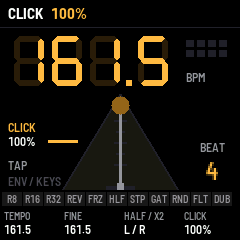
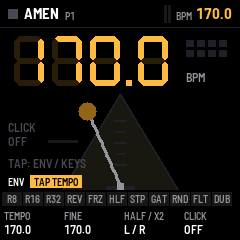
One rule for the page names: the header says the button and the part
Every page opening, button-again and ALGORITHM part change goes through
page_say(): the button as printed, then the part as its tab shows it (HOME
PERFORM, ARP GENERATOR, FX SLOT 2 TREMOLO, GLO PITCH, EDIT KICK SUB FX, EDIT
HAT SHAPE, LFO GROOVE, ENV TAP TEMPO, SEQ HAT). Before: button names on
some pages, page names on others (GLOBAL, MIXER, FX CHAIN, TAP TEMPO), drum
names on EDIT, and parts that differed from their tabs ("PITCH, SNAP",
"STEPS 1-16", FX with none). The tap tempo page keeps its tab (ENV TAP
TEMPO) at its foot. Scenario pages.txt visits every page and part.

Claude-Session: https://claude.ai/code/session_01YWuRNut7ZhYpQRsULF21Ph

diff --git a/app/ui/main.c b/app/ui/main.c
@@ -122,17 +122,11 @@ static void knob_turn(int k, int32_t d)
 /* EDIT: the drum ui.einst's sound (the kick's page, or the snare's or the hat's) */
 static void edit_open(void)
 {
-    char t[16];
-    t[0] = 0;
     ui.page = ui.einst ? PG_PERC : PG_KICK;
     ui.redraw |= RG_FOOT | RG_BLOCKS;
-    if (ui.einst) {
+    if (ui.einst)
         ui.pvoice = (uint8_t)(ui.einst - 1u);
-        app_say(PERC_VOICE_NAME[ui.pvoice], ui.ppage ? "SHAPE" : "SOUND");
-    } else {
-        kick_part_name(kick_part(), t);
-        app_say("KICK", t);
-    }
+    page_say();
 }
 
 /* a break change (ALGORITHM): its name at once, the break itself at the next bar. Playing, break_poll waits for
@@ -269,7 +263,7 @@ static void input(void)
     if (bdn & 1u << B_HOME) {
         ui.page = PG_HOME;
         ui.redraw |= RG_FOOT | RG_BLOCKS;
-        app_say("HOME", "PERFORM");
+        page_say();
     }
     if (bdn & 1u << B_GLO)               /* GLOBAL: MIDI clock and Bluetooth; again, the pitch; again, BT audio */
         global_part(ui.page == PG_GLOBAL ? (ui.gpage + 1u) % 3u : 0u);
@@ -282,7 +276,7 @@ static void input(void)
         ui.mpage = ui.page == PG_MIX ? (uint8_t)!ui.mpage : 0u;
         ui.page = PG_MIX;
         ui.redraw |= RG_FOOT | RG_BLOCKS;
-        app_say("MIXER", ui.mpage ? "GROOVE" : "LEVELS");
+        page_say();
     }
     if (bdn & 1u << B_ENV) {             /* ENV: TAP TEMPO, the whole screen; again: a tap */
         if (ui.page == PG_TAP)
@@ -291,7 +285,7 @@ static void input(void)
             slices_let_go(keys);
             ui.page = PG_TAP;
             ui.redraw |= RG_FOOT | RG_BLOCKS;
-            app_say("TAP TEMPO", "ENV OR WHITE KEYS");
+            page_say();
         }
     }
     if (bdn & 1u << B_SEQ) {             /* SEQ: the pattern's steps and lanes; again, the next lane */
@@ -301,7 +295,7 @@ static void input(void)
             ui.seq_lane = (uint8_t)((ui.seq_lane + 1u) % NSEQL);
         ui.page = PG_SEQ;
         ui.redraw |= RG_FOOT | RG_BLOCKS;
-        app_say("SEQ", SEQ_LANE_NAME[ui.seq_lane % NSEQL]);
+        page_say();
     }
     if (bdn & 1u << B_REC && btn & 1u << B_SEL) {   /* SEL + REC: clear (on SEQ its lane; else the pattern) */
         seq_clear(ui.page == PG_SEQ);
@@ -317,10 +311,11 @@ static void input(void)
             pat_read_back();             /* (into the pattern playing: SAVE keeps it) */
             set_dirty = 1u;
             app_say("RANDOMIZE", "");
-        } else
-            app_say("ARP", "GENERATOR");
+        }
         ui.page = PG_GEN;
         ui.redraw |= RG_FOOT | RG_BLOCKS;
+        if (!(btn & 1u << B_SEL))
+            page_say();
     }
     if (bdn & 1u << B_FX && key_tuned() >= 0) {   /* FX with a key held: its knobs, loop <-> slice effect */
         ui.key_layer ^= 1u;
@@ -341,9 +336,9 @@ static void input(void)
         if (ui.page == PG_FX) {
             ui.fx_hold = 1u;
             ui.fx_turned = 0u;
-        } else
-            app_say("FX CHAIN", "");
+        }
         ui.page = PG_FX;
+        page_say();
         ui.redraw |= RG_FOOT | RG_BLOCKS;
     }
     if (ui.fx_hold && !(btn & 1u << B_FX)) {   /* FX let go: alone, the next slot; with ALGORITHM turned, a move */
@@ -440,11 +435,11 @@ static void input(void)
                 ui.redraw |= RG_BLOCKS | RG_FOOT;
             } else if (ui.page == PG_SEQ) {   /* SEQ: the lane its keys edit */
                 ui.seq_lane = (uint8_t)((ui.seq_lane + (d > 0 ? 1u : NSEQL - 1u)) % NSEQL);
-                app_say("SEQ", SEQ_LANE_NAME[ui.seq_lane]);
+                page_say();
                 ui.redraw |= RG_BLOCKS | RG_FOOT;
             } else if (ui.page == PG_PERC) {   /* the snare or the hat: SOUND or SHAPE */
                 ui.ppage ^= 1u;
-                app_say(PERC_VOICE_NAME[ui.pvoice % PERC_VOICES], ui.ppage ? "SHAPE" : "SOUND");
+                page_say();
                 ui.redraw |= RG_BLOCKS | RG_FOOT;
             } else if (ui.page == PG_FX)
                 fx_algo(d, 0u);
@@ -629,6 +624,40 @@ static void draw_tabs(void)
         cv_text(236 - text_w(&FONT_T, t), 1, &FONT_T, t, C_HI);
     }
     cv_blit(0, 74);
+}
+
+/* the header, when a page opens or turns to another part: the button as printed and the part as its tab shows it
+ * ("GLO PITCH", "EDIT KICK SUB FX", "FX SLOT 2 TREMOLO", "SEQ HAT", "ENV TAP TEMPO") */
+static void page_say(void)
+{
+    static const char *const BTN[NPAGES] = {"HOME", "ARP", "FX", "GLO", "EDIT", "LFO", "SEQ", "EDIT", "ENV"};
+    static const char *const GPART[3] = {"MIDI", "PITCH", "BT AUDIO"};
+    static const char *const SEQL[NSEQL] = {"1-16", "17-32", "KICK", "SNARE", "HAT"};
+    char t[24];
+    t[0] = 0;
+    switch (ui.page) {
+    case PG_HOME: text_cat(t, "PERFORM"); break;
+    case PG_GEN: text_cat(t, "GENERATOR"); break;
+    case PG_GLOBAL: text_cat(t, GPART[ui.gpage % 3u]); break;
+    case PG_MIX: text_cat(t, ui.mpage ? "GROOVE" : "LEVELS"); break;
+    case PG_SEQ: text_cat(t, SEQL[ui.seq_lane % NSEQL]); break;
+    case PG_TAP: text_cat(t, "TAP TEMPO"); break;
+    case PG_FX:
+        text_cat(t, "SLOT ");
+        int_text((int32_t)(ui.fx_focus & 3u) + 1, t + 5);
+        text_cat(t, " ");
+        text_cat(t, BRK_FXT_NAME[set.fx.slot[ui.fx_focus & 3u].type]);
+        break;
+    case PG_KICK:
+        text_cat(t, "KICK ");
+        kick_part_name(kick_part(), t);
+        break;
+    default:
+        text_cat(t, PERC_VOICE_NAME[ui.pvoice % PERC_VOICES]);
+        text_cat(t, ui.ppage ? " SHAPE" : " SOUND");
+        break;
+    }
+    app_say(BTN[ui.page % NPAGES], t);
 }
 
 /* SEL held alone: its combinations, on the strip (FX page: its own two) */

diff --git a/app/ui/screen.c b/app/ui/screen.c
@@ -221,8 +221,12 @@ static void draw_tap(const brk_status_t *st, uint32_t now, int full)
                 cv_rect(48, 140, 30, 3, C_BLOCK);
                 cv_rect(48, 140, (int32_t)set.click * 30 / 100, 3, C_HI);
             }
-            cv_text(8, 158, &FONT_XS, "TAP", C_GRAY);
-            cv_text(8, 174, &FONT_XS, ext ? "EXT CLOCK" : "ENV / KEYS", C_DIM);
+            cv_text(8, 156, &FONT_XS, ext ? "EXT CLOCK" : "TAP: ENV / KEYS", C_DIM);
+            {                            /* the page's tab, as on every other page */
+                int32_t x = cv_text(8, 176, &FONT_T, "ENV", C_WHITE) + 6, w = text_w(&FONT_T, "TAP TEMPO") + 8;
+                cv_rect(x, 175, w, 13, C_HI);
+                cv_text(x + 4, 176, &FONT_T, "TAP TEMPO", C_BLACK);
+            }
             if (st->playing && !ext) {   /* the beat at the right: 1 (white) .. 4 */
                 char t[2] = {(char)('1' + (beat & 3)), 0};
                 cv_text(200, 140, &FONT_XS, "BEAT", C_GRAY);

diff --git a/app/ui/kick.c b/app/ui/kick.c
@@ -27,8 +27,6 @@ static void kick_part_name(uint32_t p, char *t)
 }
 static void kick_part_set(uint32_t p)
 {
-    char t[16];
-    t[0] = 0;
     if (p == 0u)
         ui.kpage = KP_MIX;
     else if (p == KPARTS - 2u)
@@ -39,8 +37,7 @@ static void kick_part_set(uint32_t p)
         ui.kpage = (p - 1u) & 1u ? KP_FX : KP_LAYER;
         ui.klayer = (uint8_t)((p - 1u) / 2u);
     }
-    kick_part_name(p, t);
-    app_say("KICK", t);
+    page_say();
 }
 static const char *const KN_KICK[KPAGES][4] = {{"SUB", "PUNCH", "GRIT", "CLICK"},
                                                {"LEVEL", "PITCH", "DECAY", "TONE"},

diff --git a/app/ui/common.c b/app/ui/common.c
@@ -51,6 +51,7 @@ static struct {
     uint8_t redraw;                      /* RG_* bits: the regions to draw again */
 } ui;
 /* the white keys play slices (or, on the SEQ, KICK and SNARE / HAT pages, steps) */
+static void page_say(void);              /* the header: the page's button and part, as its tabs (main.c) */
 static int slices_page(void) { return ui.page != PG_SEQ && ui.page != PG_TAP; }   /* (SEQ: steps; TAP: taps) */
 enum { RG_HEAD = 1, RG_WAVE = 2, RG_BLOCKS = 4, RG_FOOT = 8, RG_ALL = 15, RG_FX = 16 };
 

diff --git a/app/ui/fx.c b/app/ui/fx.c
@@ -169,7 +169,10 @@ static void fx_algo(int32_t d, uint32_t sel)
     }
     ui.fx_focus = (uint8_t)b;
     int_text((int32_t)b + 1, n);
-    app_say(sel ? "MOVED TO" : "SLOT", n);
+    if (sel)
+        app_say("MOVED TO", n);
+    else
+        page_say();
     ui.redraw |= RG_BLOCKS | RG_FOOT;
 }
 static int delay_slot(void)              /* the chain's DELAY in use (the first one on), -1 none */

diff --git a/app/ui/global.c b/app/ui/global.c
@@ -179,5 +179,5 @@ static void global_part(uint32_t g)      /* GLO (again: the next part) and ALGOR
     ui.gpage = (uint8_t)g;
     ui.page = PG_GLOBAL;
     ui.redraw |= RG_FOOT | RG_BLOCKS;
-    app_say("GLOBAL", g == 2u ? "BT AUDIO" : g ? "PITCH, SNAP" : "MIDI");
+    page_say();
 }

diff --git a/app/docs/MANUAL.md b/app/docs/MANUAL.md
@@ -48,6 +48,9 @@ The slicer view, top to bottom:
 - **The break:** its waveform, the slice markers, the slice sounding lit, the playhead.
 - **Tabs:** the button you pressed (as printed on the panel), then the page's parts as tabs, the one you are on lit:
   the button again (or ALGORITHM) goes to the next. On EDIT and FX the part edited shows at the right, "< SUB FX >".
+  Opening a page, or turning to another part, says the same in the header for a moment: the button, then the part
+  ("GLO PITCH", "EDIT KICK SUB FX", "FX SLOT 2 TREMOLO", "SEQ HAT"). ENV's tap tempo, which takes the whole screen,
+  keeps its tab at its foot.
 - **Slice blocks:** sixteen blocks, one per white key, each with its slice's waveform. The slice sounding is lit;
   a key held is outlined; a dot marks a key with a loop of its own (§3, key loops).
 - **Pads:** the eleven black-key pads, lit while held.
